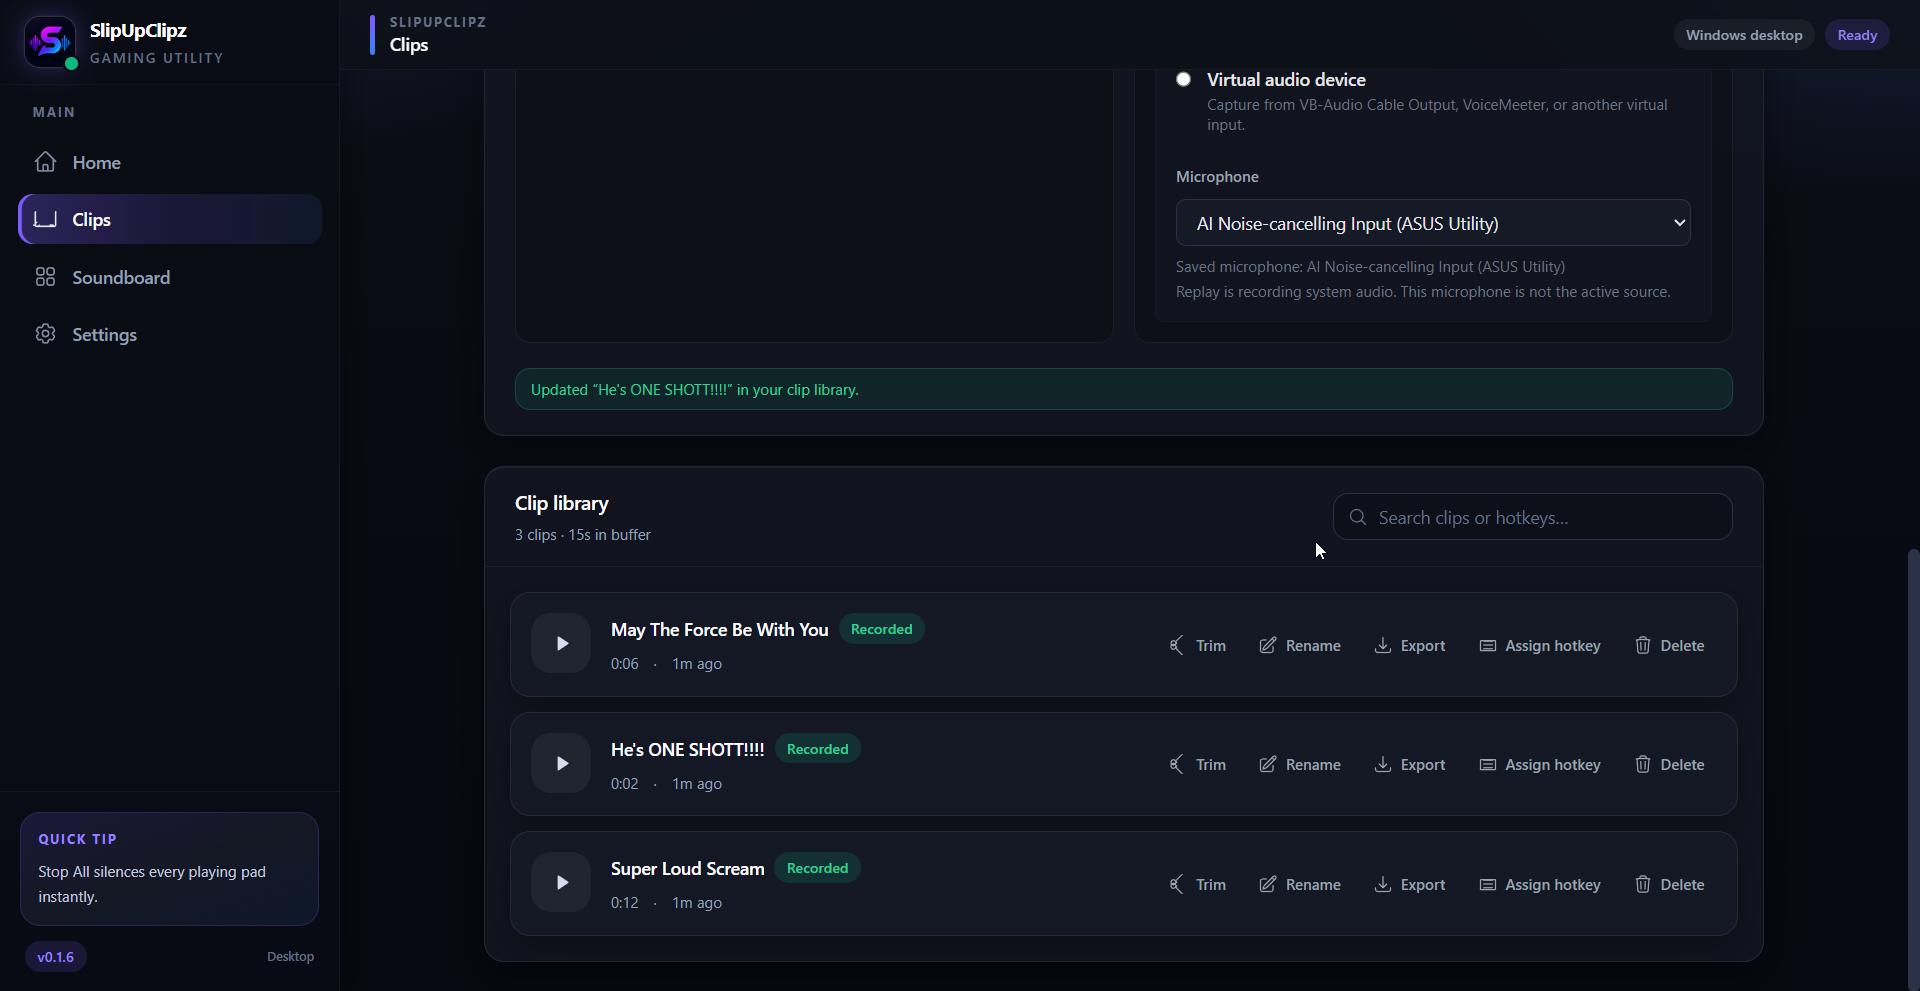
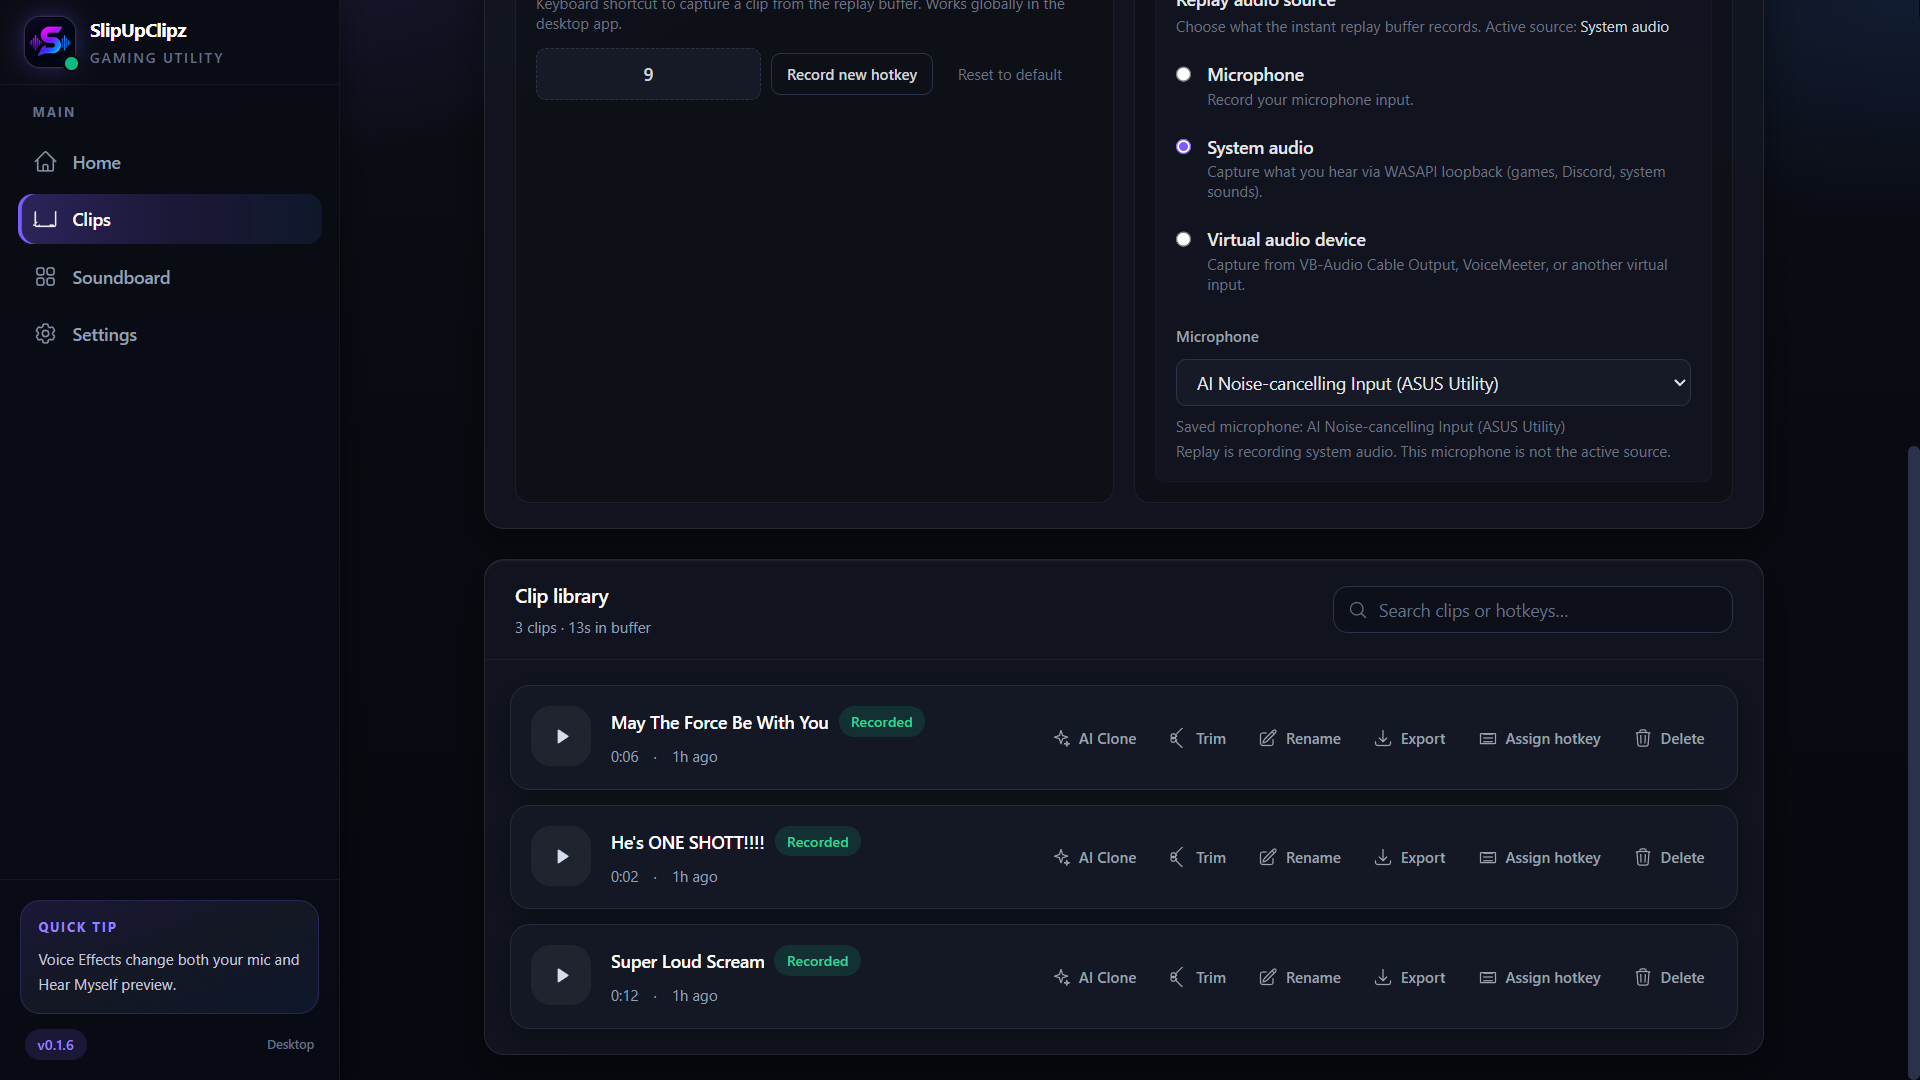
Replace homepage screenshot with authentic AI Clone interface

diff --git a/website/tests/website.spec.ts b/website/tests/website.spec.ts
@@ -172,9 +172,9 @@ for (const width of [360,390,768,1024,1440]) {
         const hero = page.locator('.hero-visual img')
         await expect(hero).toHaveAttribute('src', '/images/screenshots/homepage-clips.png')
         await expect(hero).toHaveJSProperty('naturalWidth', 1920)
-        await expect(hero).toHaveJSProperty('naturalHeight', 991)
+        await expect(hero).toHaveJSProperty('naturalHeight', 1080)
         const ratio = await hero.evaluate(img => img.clientWidth / img.clientHeight)
-        expect(ratio).toBeCloseTo(1920 / 991, 1)
+        expect(ratio).toBeCloseTo(1920 / 1080, 1)
       }
     }
     if(width<1024) {
@@ -415,3 +415,24 @@ test('Manage Pro centers its column and aligns the recovery and primary forms', 
     }
   }
 })
+
+for (const width of [360, 768, 1440]) {
+  test(`updated homepage screenshot preserves full AI Clone image at ${width}px`, async ({ page }, testInfo) => {
+    await page.setViewportSize({ width, height: 1100 })
+    await page.emulateMedia({ reducedMotion: 'reduce' })
+    await page.goto('/')
+    const image = page.locator('img[src="/images/screenshots/homepage-clips.png"]')
+    await image.scrollIntoViewIfNeeded()
+    await expect(image).toBeVisible()
+    await expect(image).toHaveJSProperty('naturalWidth', 1920)
+    await expect(image).toHaveJSProperty('naturalHeight', 1080)
+    const dimensions = await image.evaluate(img => {
+      const r = img.getBoundingClientRect()
+      return { width: r.width, height: r.height, fit: getComputedStyle(img).objectFit }
+    })
+    expect(dimensions.fit).toBe('contain')
+    expect(Math.abs(dimensions.width / dimensions.height - 1920 / 1080)).toBeLessThan(0.01)
+    expect(await page.evaluate(() => document.documentElement.scrollWidth <= innerWidth)).toBe(true)
+    await page.locator('.hero-visual').screenshot({ path: testInfo.outputPath(`hero-${width}.png`), animations: 'disabled' })
+  })
+}

diff --git a/website/src/pages/HomePage.tsx b/website/src/pages/HomePage.tsx
@@ -88,7 +88,7 @@ export function HomePage() {
             shot="homepageClips"
             alt="SlipUpClipz Clips page with the clip library and audio input settings"
             width={1920}
-            height={991}
+            height={1080}
             float
             priority
             className="motion-safe:animate-fade-up lg:justify-self-end"
